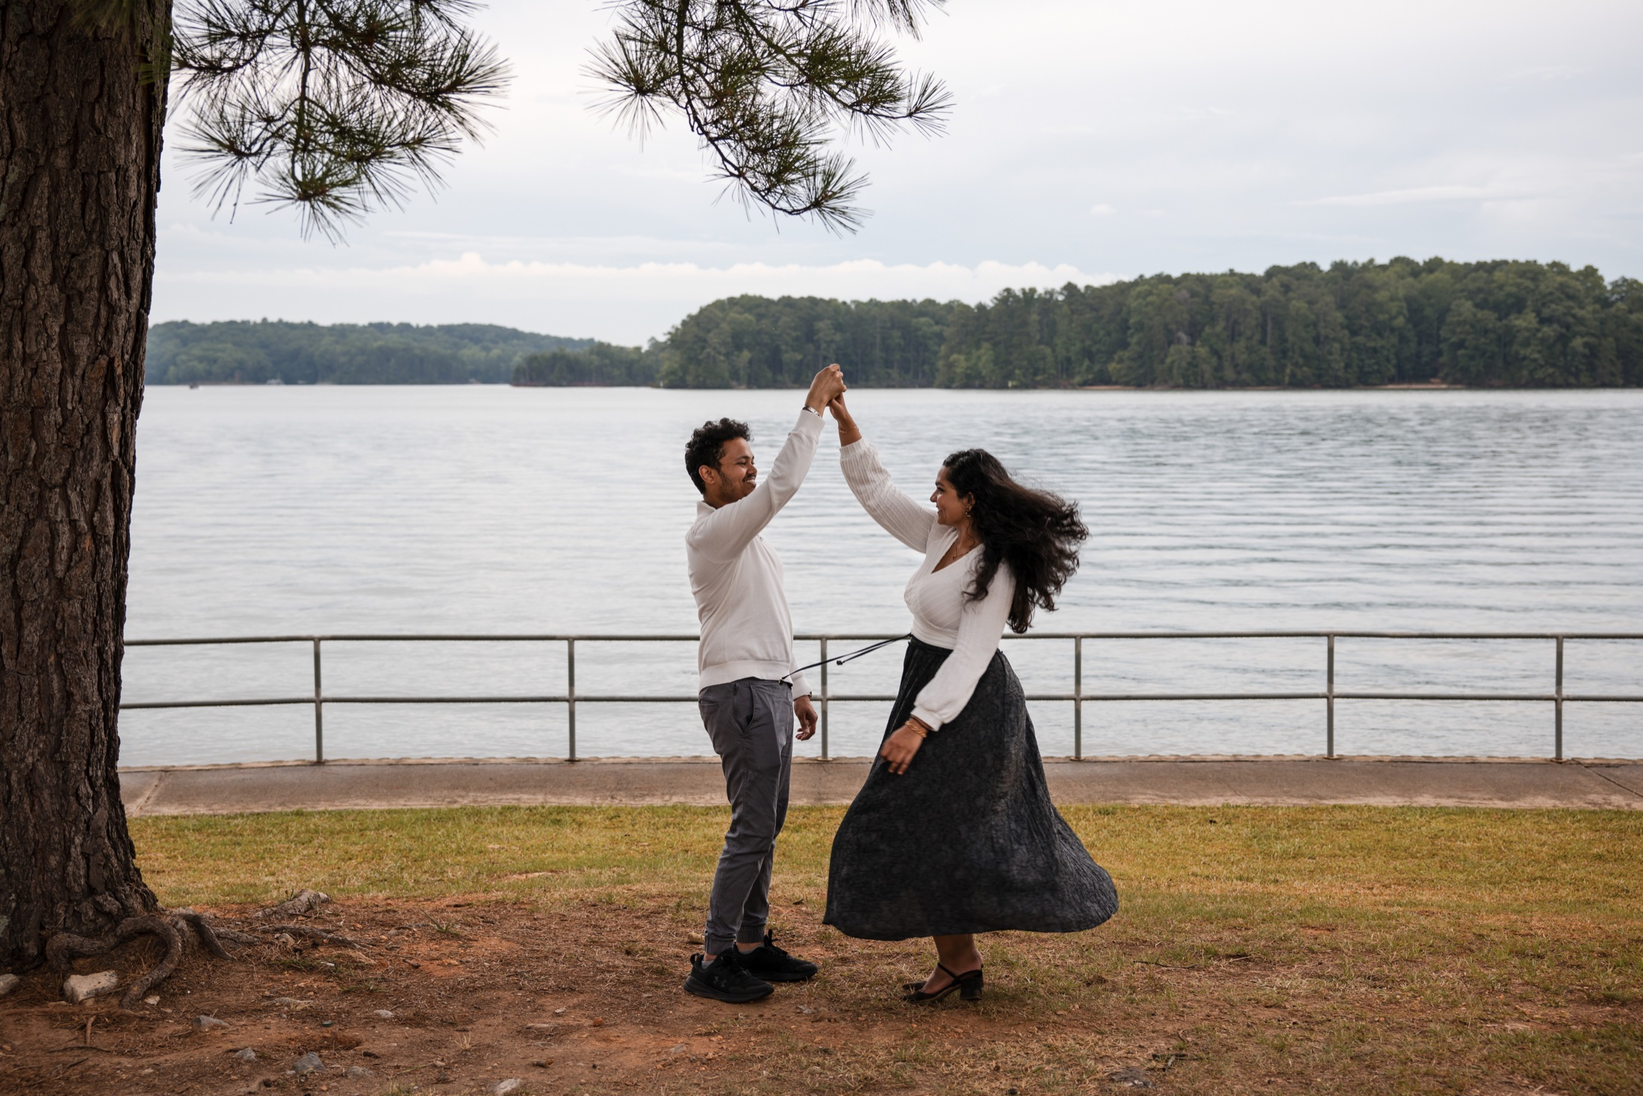
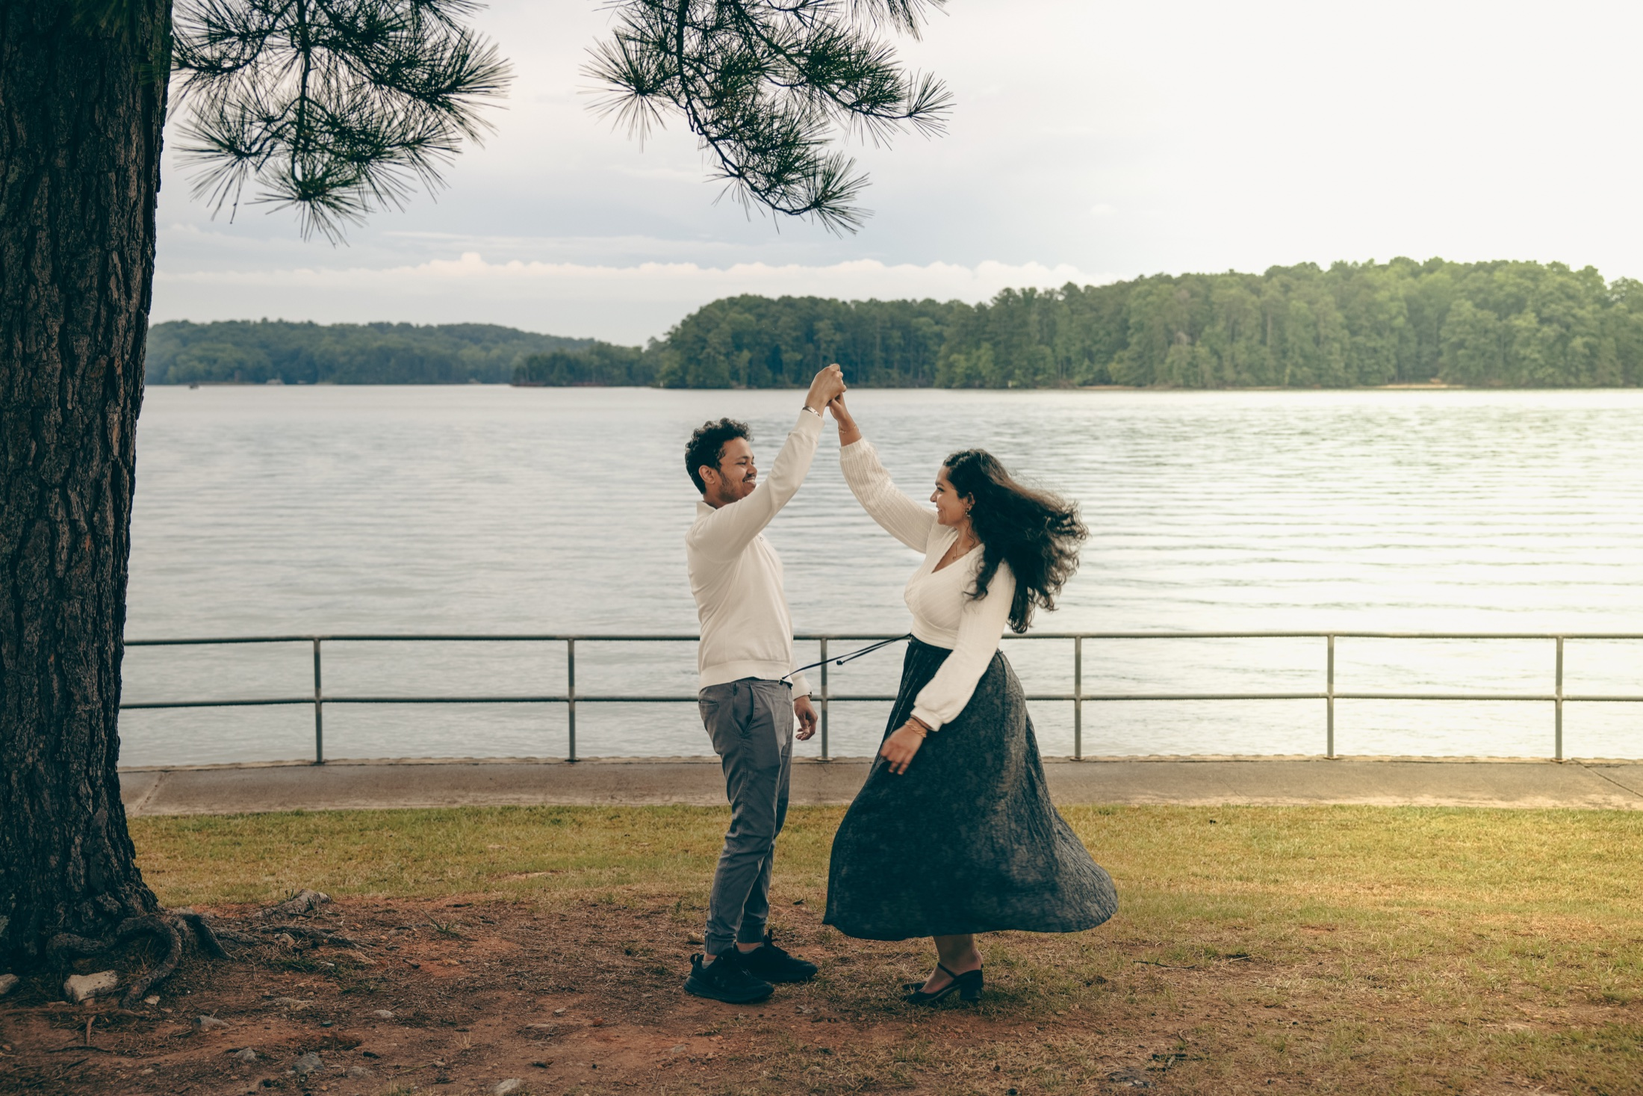
Prepare portfolio for production and add new photos

diff --git a/index.html b/index.html
@@ -3,7 +3,11 @@
 <head>
 <meta charset="UTF-8">
 <meta name="viewport" content="width=device-width, initial-scale=1.0">
+<meta name="description" content="Passion Pixel photography by Priya and Pravallika—portraits, couples, maternity, newborn, events, and lifestyle sessions in Atlanta and Indianapolis.">
+<meta name="robots" content="index,follow,max-image-preview:large">
+<meta name="theme-color" content="#0E0D0B">
 <title>Passion Pixel — Photography</title>
+<link rel="preload" as="image" href="images/web/hero-lakeside-monochrome.jpg">
 <link rel="preconnect" href="https://fonts.googleapis.com">
 <link rel="preconnect" href="https://fonts.gstatic.com" crossorigin>
 <link href="https://fonts.googleapis.com/css2?family=Fraunces:ital,opsz,wght@0,9..144,300;0,9..144,400;0,9..144,500;1,9..144,300&family=Jost:wght@300;400;500&family=IBM+Plex+Mono:wght@300;400&display=swap" rel="stylesheet">
@@ -172,7 +176,7 @@ h2{font-family:'Fraunces',serif;font-weight:300;font-size:clamp(1.8rem,3.4vw,2.6
 .shot .cap .t{font-family:'Fraunces',serif;font-style:italic;font-size:1rem}
 .shot .cap .f{font-family:'IBM Plex Mono',monospace;font-size:.58rem;letter-spacing:.15em;color:var(--sepia)}
 
-/* placeholder art (used when an image URL isn't set / fails) */
+/* image fallback */
 .ph{aspect-ratio:var(--ar,3/4);background:var(--g,linear-gradient(160deg,#3a372f,#191713));position:relative}
 .ph::before{content:'';position:absolute;inset:0;z-index:1;background:linear-gradient(100deg,transparent 25%,rgba(255,255,255,.12) 45%,transparent 65%);background-size:220% 100%;animation:shimmer 1.4s linear infinite;transition:opacity .35s}
 .ph.loaded::before{opacity:0;pointer-events:none}
@@ -192,10 +196,6 @@ h2{font-family:'Fraunces',serif;font-weight:300;font-size:clamp(1.8rem,3.4vw,2.6
 .about h2{margin-bottom:1.4rem}
 .about p{color:var(--smoke);margin-bottom:1rem;font-size:.98rem;max-width:52ch}
 .about .mono{color:#7C8A5E;display:block;margin-bottom:1rem}
-.stats{display:flex;gap:3rem;margin-top:2.2rem;flex-wrap:wrap}
-.stats div strong{font-family:'Fraunces',serif;font-weight:300;font-size:2rem;display:block;color:var(--ink)}
-.stats div span{font-family:'IBM Plex Mono',monospace;font-size:.6rem;letter-spacing:.18em;text-transform:uppercase;color:var(--smoke)}
-
 /* ---------- SERVICES ---------- */
 .services{display:grid;grid-template-columns:repeat(3,1fr);gap:1.2rem}
 .svc{border:1px solid var(--line);padding:2rem 1.6rem;transition:border-color .3s,transform .3s}
@@ -204,7 +204,7 @@ h2{font-family:'Fraunces',serif;font-weight:300;font-size:clamp(1.8rem,3.4vw,2.6
 .svc h3{font-family:'Fraunces',serif;font-weight:400;font-size:1.3rem;margin-bottom:.7rem}
 .svc p{font-size:.9rem;color:var(--smoke)}
 
-/* ---------- SAMPLE TESTIMONIALS ---------- */
+/* ---------- KIND WORDS ---------- */
 .kind-words{background:var(--dark);color:#fff;max-width:none}
 .kind-words-inner{max-width:var(--max);margin:0 auto}
 .kind-words .sec-head{border-color:rgba(255,255,255,.18)}
@@ -213,7 +213,6 @@ h2{font-family:'Fraunces',serif;font-weight:300;font-size:clamp(1.8rem,3.4vw,2.6
 .quote{border:1px solid rgba(255,255,255,.18);padding:2rem;background:rgba(255,255,255,.035)}
 .quote blockquote{font-family:'Fraunces',serif;font-size:1.2rem;line-height:1.55;font-weight:300;margin-bottom:1.5rem}
 .quote cite{font-style:normal;color:var(--sepia)}
-.sample-note{margin-top:1.3rem;color:rgba(255,255,255,.58);font-size:.78rem}
 
 /* ---------- CONTACT ---------- */
 .contact{text-align:center;padding-top:7rem;padding-bottom:7rem}
@@ -269,6 +268,7 @@ footer{border-top:1px solid var(--line)}
   .grid{columns:1}
   .film-edge{display:none}
   .hero-count{display:none}
+  .hero-slide:nth-of-type(1){background-position:68% center}
   .hero-toggle{top:5.4rem;right:1.4rem}
   .hero-content{left:1.2rem;right:1.2rem;bottom:1.8rem;width:auto;padding-left:1rem}
   .hero-content::after{inset:-2rem -1rem -2rem -2rem}
@@ -292,7 +292,7 @@ footer{border-top:1px solid var(--line)}
 </head>
 <body>
 
-<nav>
+<nav aria-label="Primary navigation">
   <a class="logo" href="#top">Passion Pixel<span style="color:var(--sepia)">.</span></a>
   <button class="menu-btn" type="button" aria-expanded="false" aria-controls="site-menu">Menu</button>
   <ul id="site-menu">
@@ -304,10 +304,9 @@ footer{border-top:1px solid var(--line)}
 </nav>
 
 <header id="top">
-  <!-- Replace the background-image URLs with your own photos -->
-  <div class="hero-slide active" aria-hidden="false" role="img" aria-label="Couple walking hand in hand across a footbridge" style="background-image:url(images/web/hero-footbridge.jpg),linear-gradient(150deg,#2e2a22,#0e0d0b)"></div>
-  <div class="hero-slide" aria-hidden="true" role="img" aria-label="Black-and-white view of a couple beside a lake" style="background-image:url(images/web/hero-lakeside-monochrome.jpg),linear-gradient(150deg,#232a2e,#0b0d0e)"></div>
-  <div class="hero-slide" aria-hidden="true" role="img" aria-label="Couple dancing beneath pine trees beside a lake" style="background-image:url(images/web/hero-lakeside-dance.jpg),linear-gradient(150deg,#2e2226,#0e0b0c)"></div>
+  <div class="hero-slide active" aria-hidden="false" role="img" aria-label="Black-and-white view of a couple beside a lake" style="background-image:url(images/web/hero-lakeside-monochrome.jpg),linear-gradient(150deg,#232a2e,#0b0d0e)"></div>
+  <div class="hero-slide" aria-hidden="true" role="img" aria-label="Couple dancing beneath pine trees beside a lake" style="background-image:url(images/web/hero-lakeside-dance.jpg?v=20261005),linear-gradient(150deg,#2e2226,#0e0b0c)"></div>
+  <div class="hero-slide" aria-hidden="true" role="img" aria-label="Couple walking hand in hand across a footbridge" style="background-image:url(images/web/hero-footbridge.jpg),linear-gradient(150deg,#2e2a22,#0e0d0b)"></div>
 
   <div class="hero-count" aria-label="hero slides">
     <button class="on" onclick="goSlide(0,true)" aria-label="Show slide 1" aria-current="true">1</button>
@@ -346,18 +345,24 @@ footer{border-top:1px solid var(--line)}
   <div class="grid" id="grid">
     <figure class="shot" data-cat="couple"><div class="ph has-img" data-label="Couples" style="--ar:2/3;--g:linear-gradient(160deg,#6f7965,#26332e)" data-src="images/web/couple-shoreline.jpg"><img src="images/web/couple-shoreline.jpg" alt="Couple walking barefoot together along a quiet shoreline" loading="lazy" decoding="async" onerror="this.parentElement.classList.remove('has-img');this.remove()"></div><figcaption class="cap"><span class="t">Shoreline stroll</span><span class="f">C-001</span></figcaption></figure>
     <figure class="shot" data-cat="newborn"><div class="ph has-img" data-label="Newborn" style="--ar:9/16;--g:linear-gradient(160deg,#d9c2ae,#8f7765)" data-src="images/web/newborn-details.jpg"><img src="images/web/newborn-details.jpg" alt="Collage of a newborn baby's hands, feet, and sleeping face" loading="lazy" decoding="async" onerror="this.parentElement.classList.remove('has-img');this.remove()"></div><figcaption class="cap"><span class="t">Tiny details</span><span class="f">N-001</span></figcaption></figure>
+    <figure class="shot" data-cat="newborn"><div class="ph has-img" data-label="Newborn" style="--ar:2/3;--g:linear-gradient(160deg,#7eb3d4,#7f9b47)" data-src="images/web/newborn-first-birthday.jpg"><img src="images/web/newborn-first-birthday.jpg" alt="Baby in a party dress watching a child hold a number one birthday balloon beside a lake" loading="lazy" decoding="async" onerror="this.parentElement.classList.remove('has-img');this.remove()"></div><figcaption class="cap"><span class="t">One little year</span><span class="f">N-002</span></figcaption></figure>
     <figure class="shot" data-cat="maternity"><div class="ph has-img" data-label="Maternity" style="--ar:3/4;--g:linear-gradient(160deg,#b88d28,#6f3a28)" data-src="images/web/maternity-gold-sari-01.jpg"><img src="images/web/maternity-gold-sari-01.jpg" alt="Expectant mother in a gold sari with her partner kneeling beside her" loading="lazy" decoding="async" onerror="this.parentElement.classList.remove('has-img');this.remove()"></div><figcaption class="cap"><span class="t">Waiting for you</span><span class="f">M-001</span></figcaption></figure>
     <figure class="shot" data-cat="maternity"><div class="ph has-img" data-label="Maternity" style="--ar:2/3;--g:linear-gradient(160deg,#b8923d,#4f6b45)" data-src="images/web/maternity-gold-sari-02.jpg"><img src="images/web/maternity-gold-sari-02.jpg" alt="Expectant couple walking outdoors in traditional attire" loading="lazy" decoding="async" onerror="this.parentElement.classList.remove('has-img');this.remove()"></div><figcaption class="cap"><span class="t">Summer walk</span><span class="f">M-002</span></figcaption></figure>
     <figure class="shot" data-cat="maternity"><div class="ph has-img" data-label="Maternity" style="--ar:3/4;--g:linear-gradient(160deg,#ae8330,#66523a)" data-src="images/web/maternity-gold-sari-03.jpg"><img src="images/web/maternity-gold-sari-03.jpg" alt="Expectant couple smiling together in gold and cream traditional clothing" loading="lazy" decoding="async" onerror="this.parentElement.classList.remove('has-img');this.remove()"></div><figcaption class="cap"><span class="t">Golden anticipation</span><span class="f">M-003</span></figcaption></figure>
+    <figure class="shot" data-cat="maternity"><div class="ph has-img" data-label="Maternity" style="--ar:2/3;--g:linear-gradient(160deg,#b72724,#53623c)" data-src="images/web/maternity-red-sari-portrait.jpg"><img src="images/web/maternity-red-sari-portrait.jpg" alt="Expectant mother smiling outdoors in a red and gold sari" loading="lazy" decoding="async" onerror="this.parentElement.classList.remove('has-img');this.remove()"></div><figcaption class="cap"><span class="t">Radiant in red</span><span class="f">M-004</span></figcaption></figure>
+    <figure class="shot" data-cat="maternity"><div class="ph has-img" data-label="Maternity" style="--ar:3/2;--g:linear-gradient(160deg,#a93435,#79678c)" data-src="images/web/maternity-red-sari-garden.jpg"><img src="images/web/maternity-red-sari-garden.jpg" alt="Expectant mother in a red sari standing before purple garden flowers" loading="lazy" decoding="async" onerror="this.parentElement.classList.remove('has-img');this.remove()"></div><figcaption class="cap"><span class="t">Garden bloom</span><span class="f">M-005</span></figcaption></figure>
+    <figure class="shot" data-cat="maternity"><div class="ph has-img" data-label="Maternity" style="--ar:3/2;--g:linear-gradient(160deg,#a52a28,#455e46)" data-src="images/web/maternity-red-sari-couple.jpg"><img src="images/web/maternity-red-sari-couple.jpg" alt="Expectant couple standing together outdoors, with the mother wearing a red sari" loading="lazy" decoding="async" onerror="this.parentElement.classList.remove('has-img');this.remove()"></div><figcaption class="cap"><span class="t">Growing together</span><span class="f">M-006</span></figcaption></figure>
     <figure class="shot" data-cat="couple"><div class="ph has-img" data-label="Couples" style="--ar:5/8;--g:linear-gradient(160deg,#5d6b55,#302a28)" data-src="images/web/couple-outdoor-steps.jpg"><img src="images/web/couple-outdoor-steps.jpg" alt="Couple sharing a relaxed moment while seated on outdoor steps" loading="lazy" decoding="async" onerror="this.parentElement.classList.remove('has-img');this.remove()"></div><figcaption class="cap"><span class="t">Between moments</span><span class="f">C-002</span></figcaption></figure>
     <figure class="shot" data-cat="portrait"><div class="ph has-img" data-label="Portrait" style="--ar:2/3;--g:linear-gradient(160deg,#2f8f67,#e19b2e)" data-src="images/web/portrait-green-sari-rangoli.jpg"><img src="images/web/portrait-green-sari-rangoli.jpg" alt="Woman in a green sari standing beside a colorful rangoli" loading="lazy" decoding="async" onerror="this.parentElement.classList.remove('has-img');this.remove()"></div><figcaption class="cap"><span class="t">Festival colors</span><span class="f">P-001</span></figcaption></figure>
     <figure class="shot" data-cat="portrait"><div class="ph has-img" data-label="Portrait" style="--ar:3/2;--g:linear-gradient(160deg,#35886a,#d8a63b)" data-src="images/web/portrait-rangoli-wide.jpg"><img src="images/web/portrait-rangoli-wide.jpg" alt="Woman in a green sari seated beside a large colorful rangoli" loading="lazy" decoding="async" onerror="this.parentElement.classList.remove('has-img');this.remove()"></div><figcaption class="cap"><span class="t">Rangoli morning</span><span class="f">P-002</span></figcaption></figure>
     <figure class="shot" data-cat="portrait"><div class="ph has-img" data-label="Portrait" style="--ar:2/3;--g:linear-gradient(160deg,#23805d,#8f222a)" data-src="images/web/portrait-floral-doorway.jpg"><img src="images/web/portrait-floral-doorway.jpg" alt="Woman in a green sari framed by red and white floral garlands" loading="lazy" decoding="async" onerror="this.parentElement.classList.remove('has-img');this.remove()"></div><figcaption class="cap"><span class="t">Framed in flowers</span><span class="f">P-003</span></figcaption></figure>
-    <figure class="shot" data-cat="maternity"><div class="ph has-img" data-label="Maternity" style="--ar:2/3;--g:linear-gradient(160deg,#c6a982,#6c5b4c)" data-src="images/web/maternity-cream-gold-01.jpg"><img src="images/web/maternity-cream-gold-01.jpg" alt="Expectant couple posing indoors in cream and gold traditional clothing" loading="lazy" decoding="async" onerror="this.parentElement.classList.remove('has-img');this.remove()"></div><figcaption class="cap"><span class="t">Quiet celebration</span><span class="f">M-004</span></figcaption></figure>
-    <figure class="shot" data-cat="maternity"><div class="ph has-img" data-label="Maternity" style="--ar:2/3;--g:linear-gradient(160deg,#c8ad87,#574b43)" data-src="images/web/maternity-cream-gold-02.jpg"><img src="images/web/maternity-cream-gold-02.jpg" alt="Close portrait of an expectant couple looking at one another" loading="lazy" decoding="async" onerror="this.parentElement.classList.remove('has-img');this.remove()"></div><figcaption class="cap"><span class="t">Looking forward</span><span class="f">M-005</span></figcaption></figure>
-    <figure class="shot" data-cat="maternity"><div class="ph has-img" data-label="Maternity" style="--ar:2/3;--g:linear-gradient(160deg,#b69a7d,#4f4540)" data-src="images/web/maternity-cream-gold-03.jpg"><img src="images/web/maternity-cream-gold-03.jpg" alt="Expectant couple touching foreheads and holding hands indoors" loading="lazy" decoding="async" onerror="this.parentElement.classList.remove('has-img');this.remove()"></div><figcaption class="cap"><span class="t">Close to you</span><span class="f">M-006</span></figcaption></figure>
+    <figure class="shot" data-cat="maternity"><div class="ph has-img" data-label="Maternity" style="--ar:2/3;--g:linear-gradient(160deg,#c6a982,#6c5b4c)" data-src="images/web/maternity-cream-gold-01.jpg"><img src="images/web/maternity-cream-gold-01.jpg" alt="Expectant couple posing indoors in cream and gold traditional clothing" loading="lazy" decoding="async" onerror="this.parentElement.classList.remove('has-img');this.remove()"></div><figcaption class="cap"><span class="t">Quiet celebration</span><span class="f">M-007</span></figcaption></figure>
+    <figure class="shot" data-cat="maternity"><div class="ph has-img" data-label="Maternity" style="--ar:2/3;--g:linear-gradient(160deg,#c8ad87,#574b43)" data-src="images/web/maternity-cream-gold-02.jpg"><img src="images/web/maternity-cream-gold-02.jpg" alt="Close portrait of an expectant couple looking at one another" loading="lazy" decoding="async" onerror="this.parentElement.classList.remove('has-img');this.remove()"></div><figcaption class="cap"><span class="t">Looking forward</span><span class="f">M-008</span></figcaption></figure>
+    <figure class="shot" data-cat="maternity"><div class="ph has-img" data-label="Maternity" style="--ar:2/3;--g:linear-gradient(160deg,#b69a7d,#4f4540)" data-src="images/web/maternity-cream-gold-03.jpg"><img src="images/web/maternity-cream-gold-03.jpg" alt="Expectant couple touching foreheads and holding hands indoors" loading="lazy" decoding="async" onerror="this.parentElement.classList.remove('has-img');this.remove()"></div><figcaption class="cap"><span class="t">Close to you</span><span class="f">M-009</span></figcaption></figure>
     <figure class="shot" data-cat="couple"><div class="ph has-img" data-label="Couples" style="--ar:2/3;--g:linear-gradient(160deg,#394b39,#201e20)" data-src="images/web/couple-tree-embrace.jpg"><img src="images/web/couple-tree-embrace.jpg" alt="Couple embracing beside a tree in a park" loading="lazy" decoding="async" onerror="this.parentElement.classList.remove('has-img');this.remove()"></div><figcaption class="cap"><span class="t">Under the trees</span><span class="f">C-003</span></figcaption></figure>
     <figure class="shot" data-cat="couple"><div class="ph has-img" data-label="Couples" style="--ar:3/2;--g:linear-gradient(160deg,#8297a2,#3d4d50)" data-src="images/web/couple-lakeshore-wide.jpg"><img src="images/web/couple-lakeshore-wide.jpg" alt="Couple standing together at the edge of a peaceful lake" loading="lazy" decoding="async" onerror="this.parentElement.classList.remove('has-img');this.remove()"></div><figcaption class="cap"><span class="t">At the water's edge</span><span class="f">C-004</span></figcaption></figure>
+    <figure class="shot" data-cat="couple"><div class="ph has-img" data-label="Couples" style="--ar:3/2;--g:linear-gradient(160deg,#6a664f,#313a2f)" data-src="images/web/couple-village-stroll.jpg"><img src="images/web/couple-village-stroll.jpg" alt="Couple holding hands while walking down a quiet village street" loading="lazy" decoding="async" onerror="this.parentElement.classList.remove('has-img');this.remove()"></div><figcaption class="cap"><span class="t">Village stroll</span><span class="f">C-005</span></figcaption></figure>
+    <figure class="shot" data-cat="couple"><div class="ph has-img" data-label="Couples" style="--ar:3/2;--g:linear-gradient(160deg,#76472f,#314b39)" data-src="images/web/couple-winery-walk.jpg"><img src="images/web/couple-winery-walk.jpg" alt="Couple walking hand in hand through a colorful winery village" loading="lazy" decoding="async" onerror="this.parentElement.classList.remove('has-img');this.remove()"></div><figcaption class="cap"><span class="t">Winery walk</span><span class="f">C-006</span></figcaption></figure>
   </div>
 </section>
 
@@ -372,11 +377,6 @@ footer{border-top:1px solid var(--line)}
       <p>We’re drawn to genuine connection, natural emotion, beautiful light, and the little details that make every story different. Rather than simply documenting a moment, we want you to be able to look back at your photographs and feel it all over again.</p>
       <p>From intimate moments to the biggest celebrations, we’re honored to turn your memories into timeless photographs.</p>
       <p>Because the best photographs don’t just show you what happened—they take you back to how it felt.</p>
-      <!-- <div class="stats">
-        <div><strong>120+</strong><span>Portraits shot</span></div>
-        <div><strong>8</strong><span>Years shooting</span></div>
-        <div><strong>40k</strong><span>Frames a year</span></div>
-      </div> -->
     </div>
   </div>
 </div>
@@ -387,9 +387,9 @@ footer{border-top:1px solid var(--line)}
     <span class="mono">What We Shoot</span>
   </div>
   <div class="services">
-    <div class="svc"><span class="mono">Portraits</span><h3>Full session coverage</h3><p>Individuals, couples, and families. Candid-first, editorial where it counts. Digital gallery and prints included.</p></div>
-    <div class="svc"><span class="mono">LifeStyle & Candid</span><h3>Fine-art prints</h3><p>Limited-edition prints, shot on location at golden and blue hour. Framed or unframed.</p></div>
-    <div class="svc"><span class="mono">Events &amp; brands</span><h3>Everyday sessions</h3><p>Small events, gatherings, and brand shoots. Relaxed sessions that feel like hanging out, not posing.</p></div>
+    <div class="svc"><span class="mono">Portraits</span><h3>Portrait sessions</h3><p>Individuals, couples, maternity, newborn, and families. Candid-first, editorial where it counts, with a curated digital gallery.</p></div>
+    <div class="svc"><span class="mono">Lifestyle &amp; candid</span><h3>Natural storytelling</h3><p>Relaxed sessions centered on genuine connection, natural movement, and the meaningful details that make your story personal.</p></div>
+    <div class="svc"><span class="mono">Events &amp; brands</span><h3>Event and brand coverage</h3><p>Celebrations, intimate gatherings, and brand sessions photographed with an unobtrusive, story-driven approach.</p></div>
   </div>
 </section>
 
@@ -397,23 +397,22 @@ footer{border-top:1px solid var(--line)}
   <div class="kind-words-inner">
     <div class="sec-head">
       <h2>Kind words</h2>
-      <span class="mono">Sample testimonials</span>
+      <span class="mono">Anonymous reflections</span>
     </div>
     <div class="quotes">
       <article class="quote">
         <blockquote>“They made us feel completely at ease, and the photographs feel exactly like the day did—warm, joyful, and entirely ours.”</blockquote>
-        <cite class="mono">Sample — Maya &amp; Jordan</cite>
+        <cite class="mono">A couple from Atlanta</cite>
       </article>
       <article class="quote">
         <blockquote>“Nothing felt staged. They noticed all the small moments we missed and turned them into the images we keep returning to.”</blockquote>
-        <cite class="mono">Sample — The Rao Family</cite>
+        <cite class="mono">Newlyweds from Indianapolis</cite>
       </article>
       <article class="quote">
         <blockquote>“From planning through delivery, the experience was thoughtful, relaxed, and beautifully organized.”</blockquote>
-        <cite class="mono">Sample — Nina, Brand Session</cite>
+        <cite class="mono">A brand client from Atlanta</cite>
       </article>
     </div>
-    <p class="sample-note mono">Placeholder examples — replace these with verified client feedback when ready.</p>
   </div>
 </section>
 
@@ -434,7 +433,7 @@ footer{border-top:1px solid var(--line)}
   <div class="foot">
     <span class="mono">© 2026 Passion Pixel</span>
     <div class="socials">
-      <a href="https://www.instagram.com/passionpixelphotography?igsh=MXFrYzg5NWJxZmFibQ==" target="_blank" rel="noopener noreferrer" aria-label="Passion Pixel on Instagram (opens in a new tab)">Instagram</a>
+      <a href="https://www.instagram.com/passionpixelphotography/" target="_blank" rel="noopener noreferrer" aria-label="Passion Pixel on Instagram (opens in a new tab)">Instagram</a>
     </div>
   </div>
 </footer>
@@ -569,7 +568,7 @@ function renderLB(){
   lbPh.innerHTML='';
   if(p.dataset.src){
     const im=document.createElement('img');
-    im.src=p.dataset.src.replace('w=900','w=1600').replace('w=1000','w=1600');
+    im.src=p.dataset.src;
     im.alt=s.querySelector('.t').textContent;
     im.addEventListener('load',()=>lbPh.classList.add('loaded'),{once:true});
     lbPh.classList.remove('loaded');
